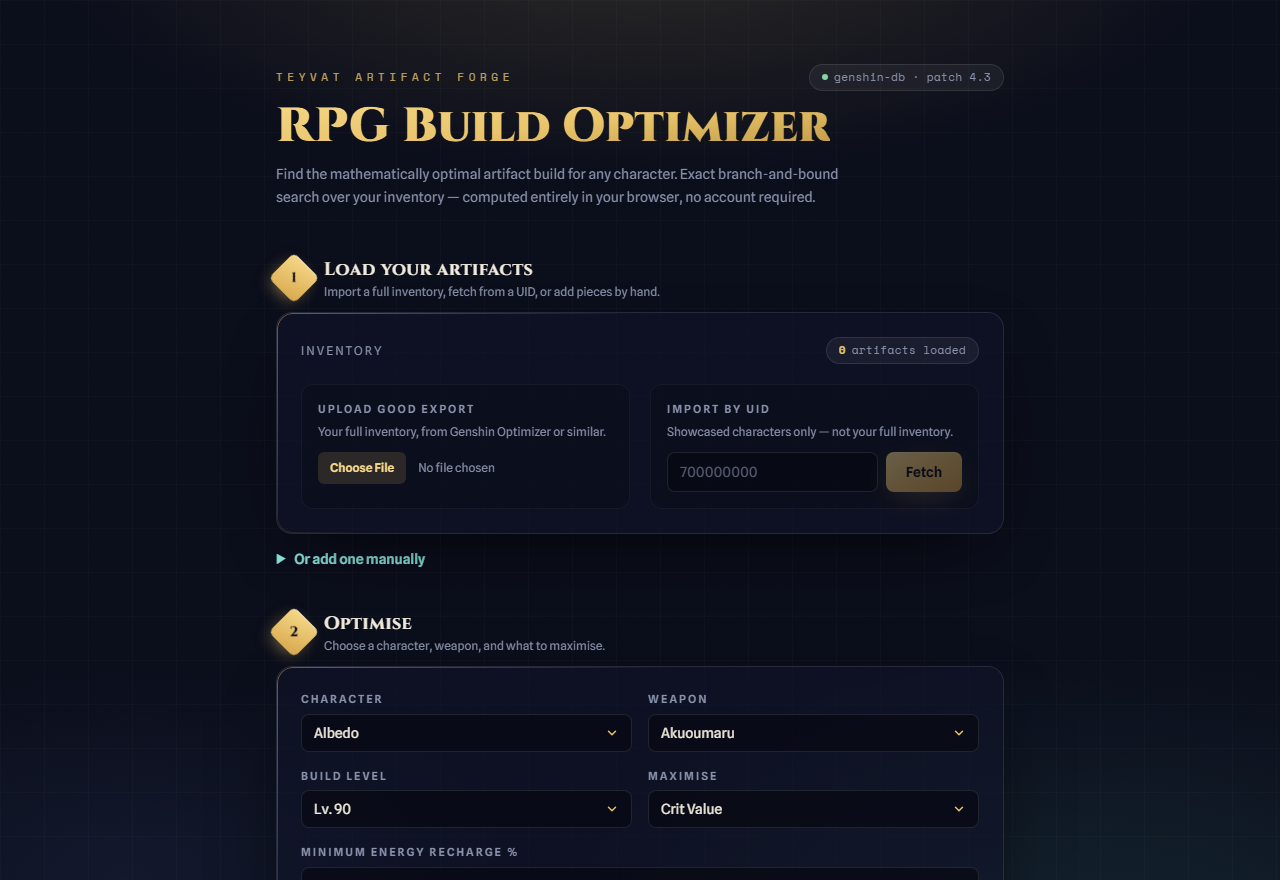
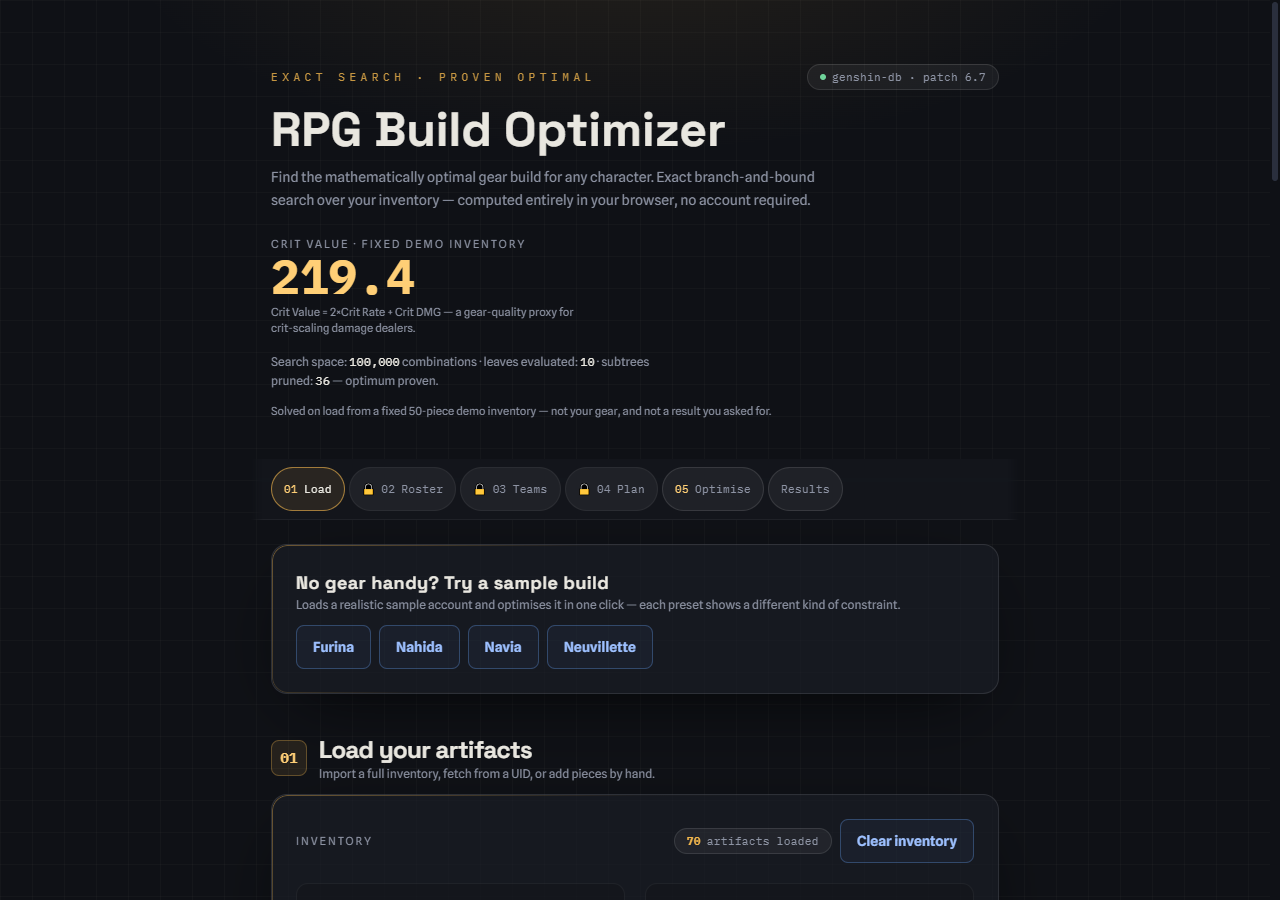
docs: fresh README screenshot; silence zustand's legacy-blob migrate error
The README hero image was 2.5 months stale (old product name, patch 4.3,
no solved hero); retaken at 1280px against the finished build. The persist
stores gain an identity migrate alongside the filtering merge — zustand
logs an error on every load of a pre-v1 blob when no migrate exists, which
every existing user would have hit on first visit.

diff --git a/src/state/roster.ts b/src/state/roster.ts
@@ -50,6 +50,11 @@ export const useRoster = create<RosterState>()(
       // Same trust-boundary reasoning as the inventory store, and the same
       // per-row (not whole-blob) drop: one unresolvable character must not
       // erase the rest of the account snapshot.
+      // Identity `migrate`: the per-row filtering lives in `merge` (above),
+      // but zustand logs an error on every load of a pre-v1 blob when no
+      // migrate function exists at all. Legacy blobs pass through unchanged
+      // and are then filtered by `merge` like everything else.
+      migrate: (persisted) => persisted,
       merge: (persisted, current) => {
         const rows = (persisted as { entries?: unknown })?.entries;
         if (typeof rows !== 'object' || rows === null) return { ...current };

diff --git a/src/state/inventory.ts b/src/state/inventory.ts
@@ -38,6 +38,11 @@ export const useInventory = create<InventoryState>()(
       // differs, so a blob already stamped v1 would skip the filter forever.
       // Corrupt rows are dropped individually — a single bad piece must never
       // cost the player the rest of their inventory.
+      // Identity `migrate`: the per-row filtering lives in `merge` (above),
+      // but zustand logs an error on every load of a pre-v1 blob when no
+      // migrate function exists at all. Legacy blobs pass through unchanged
+      // and are then filtered by `merge` like everything else.
+      migrate: (persisted) => persisted,
       merge: (persisted, current) => {
         const rows = (persisted as { artifacts?: unknown })?.artifacts;
         return {
